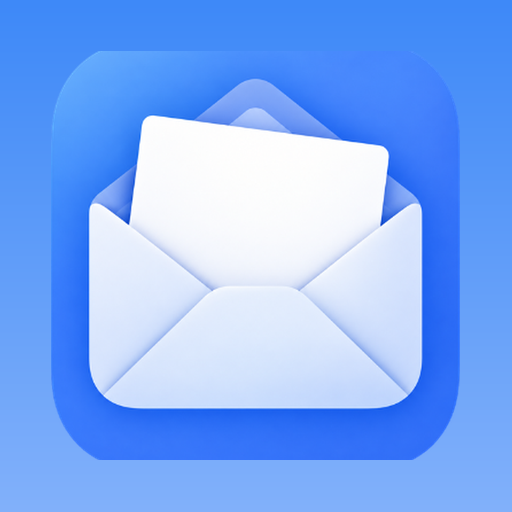
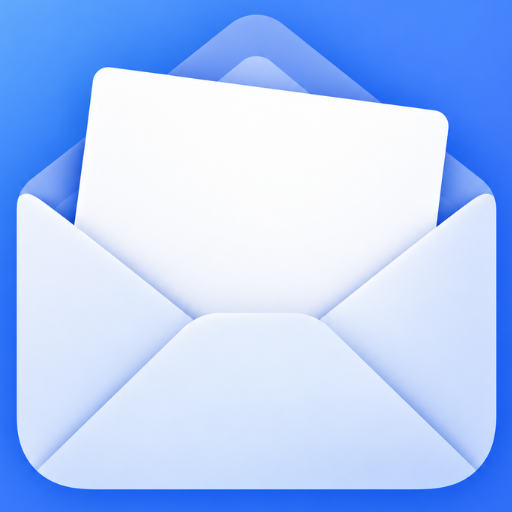
Refine native launch branding and fix iOS sign-out isolation

diff --git a/ios/GrapMail/SessionStore.swift b/ios/GrapMail/SessionStore.swift
@@ -64,6 +64,7 @@ enum SessionStore {
         return Date().timeIntervalSince1970 * 1000 < millis
     }
 
+    @MainActor
     static func clear() {
         generation = UUID()
         MailPoll.clear()

diff --git a/scripts/mail-honesty.py b/scripts/mail-honesty.py
@@ -3031,11 +3031,11 @@ IOS_LAUNCH = (ROOT / "ios/GrapMail/LaunchScreen.storyboard").read_text(encoding=
 pin("the iOS launch storyboard shows the icon and Grapsee",
     "UILaunchStoryboardName: LaunchScreen" in YML
     and 'launchScreen="YES"' in IOS_LAUNCH
-    and 'image="LaunchBrand"' in IOS_LAUNCH
+    and 'image="GrapMailLogo"' in IOS_LAUNCH
     and 'text="Grapsee"' in IOS_LAUNCH
     and 'key="backgroundColor" name="LaunchBackground"' in IOS_LAUNCH
     and not (ROOT / "ios/GrapMail/LaunchSplashView.swift").exists()
-    and (ROOT / "ios/GrapMail/Assets.xcassets/LaunchBrand.imageset/LaunchBrand.png").exists()
+    and (ROOT / "ios/GrapMail/Assets.xcassets/GrapMailLogo.imageset/grapmail_logo.png").exists()
     and (ROOT / "ios/GrapMail/Assets.xcassets/LaunchBackground.colorset/Contents.json").exists()
     and "INFOPLIST_KEY_UILaunchScreen_Generation" not in YML)
 
@@ -3043,7 +3043,7 @@ pin("Android's splash theme is installed before the window content exists",
     'androidx.core:core-splashscreen' in KT_GRADLE
     and "Theme.GrapMail.Splash" in (ROOT / "android/app/src/main/res/values/themes.xml")
         .read_text(encoding="utf-8")
-    and 'windowSplashScreenAnimatedIcon">@mipmap/ic_launcher' in (ROOT / "android/app/src/main/res/values/themes.xml")
+    and 'windowSplashScreenAnimatedIcon">@drawable/grapmail_splash_icon' in (ROOT / "android/app/src/main/res/values/themes.xml")
         .read_text(encoding="utf-8")
     and "androidx.core.splashscreen.SplashScreen.Companion.installSplashScreen" in code_only(KT_MAIN)
     # The order is the whole rule: installed after `super.onCreate`, the system
@@ -3084,7 +3084,7 @@ pin("the new logo is the launcher on every density, themed, round, iOS and splas
     and 'android:roundIcon="@mipmap/ic_launcher"' in KT_MANIFEST
     and (ICON_SET / "AppIcon-1024.png").exists()
     and (ICON_SET / "AppIcon-1024.png").stat().st_size > 40000
-    and "@mipmap/ic_launcher" in (ROOT / "android/app/src/main/res/values/themes.xml")
+    and "@drawable/grapmail_splash_icon" in (ROOT / "android/app/src/main/res/values/themes.xml")
         .read_text(encoding="utf-8")
     and not (ROOT / "android/app/src/main/res/drawable/splash_logo.xml").exists()
     and sorted(f.name for f in (ROOT / "android/app/src/main/res/drawable-nodpi").glob("*"))
